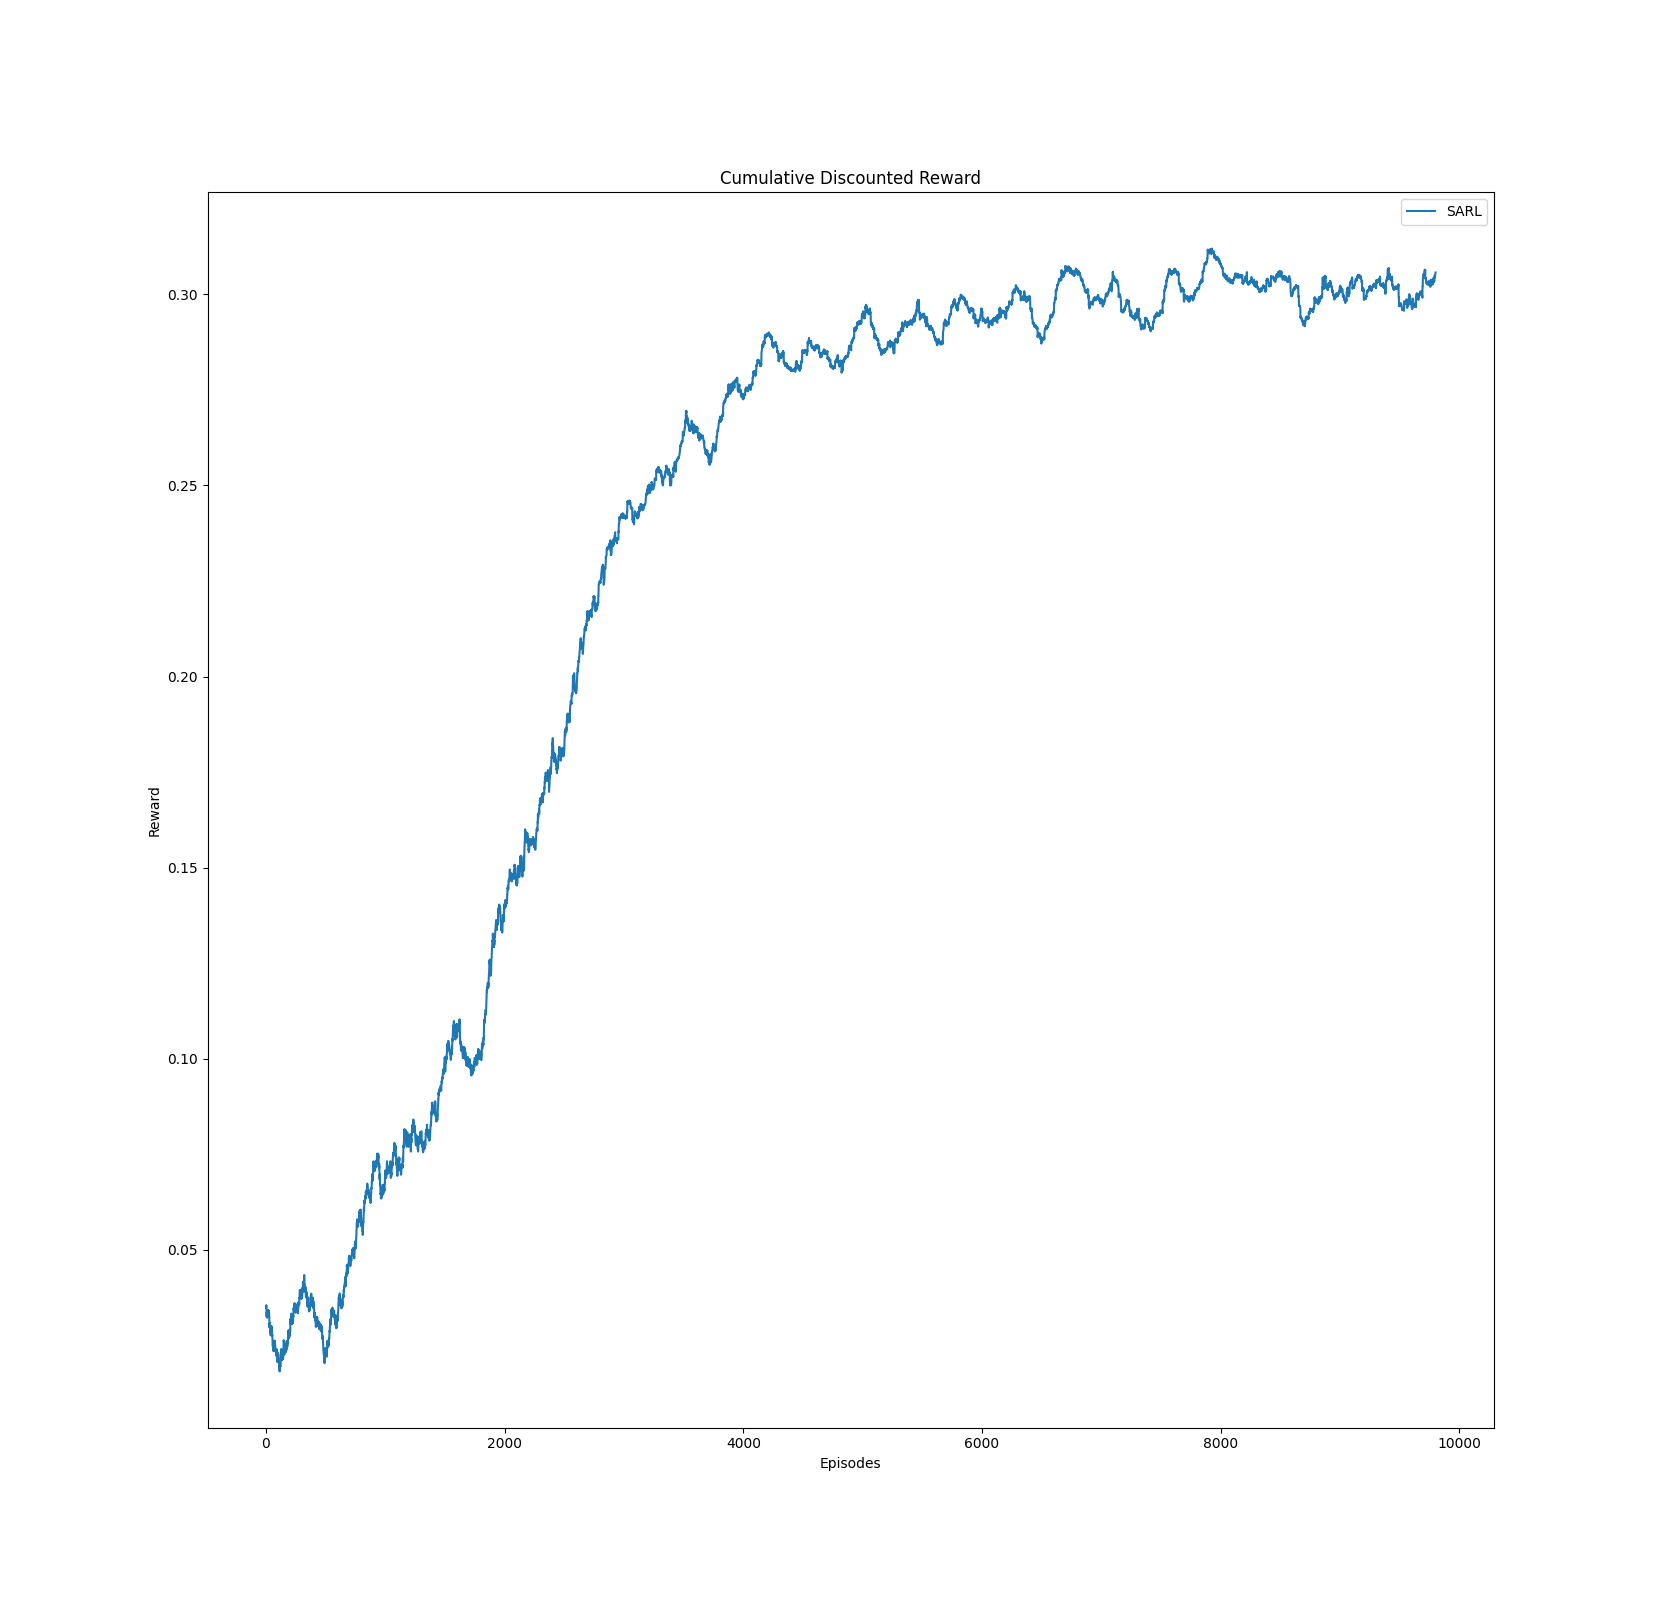
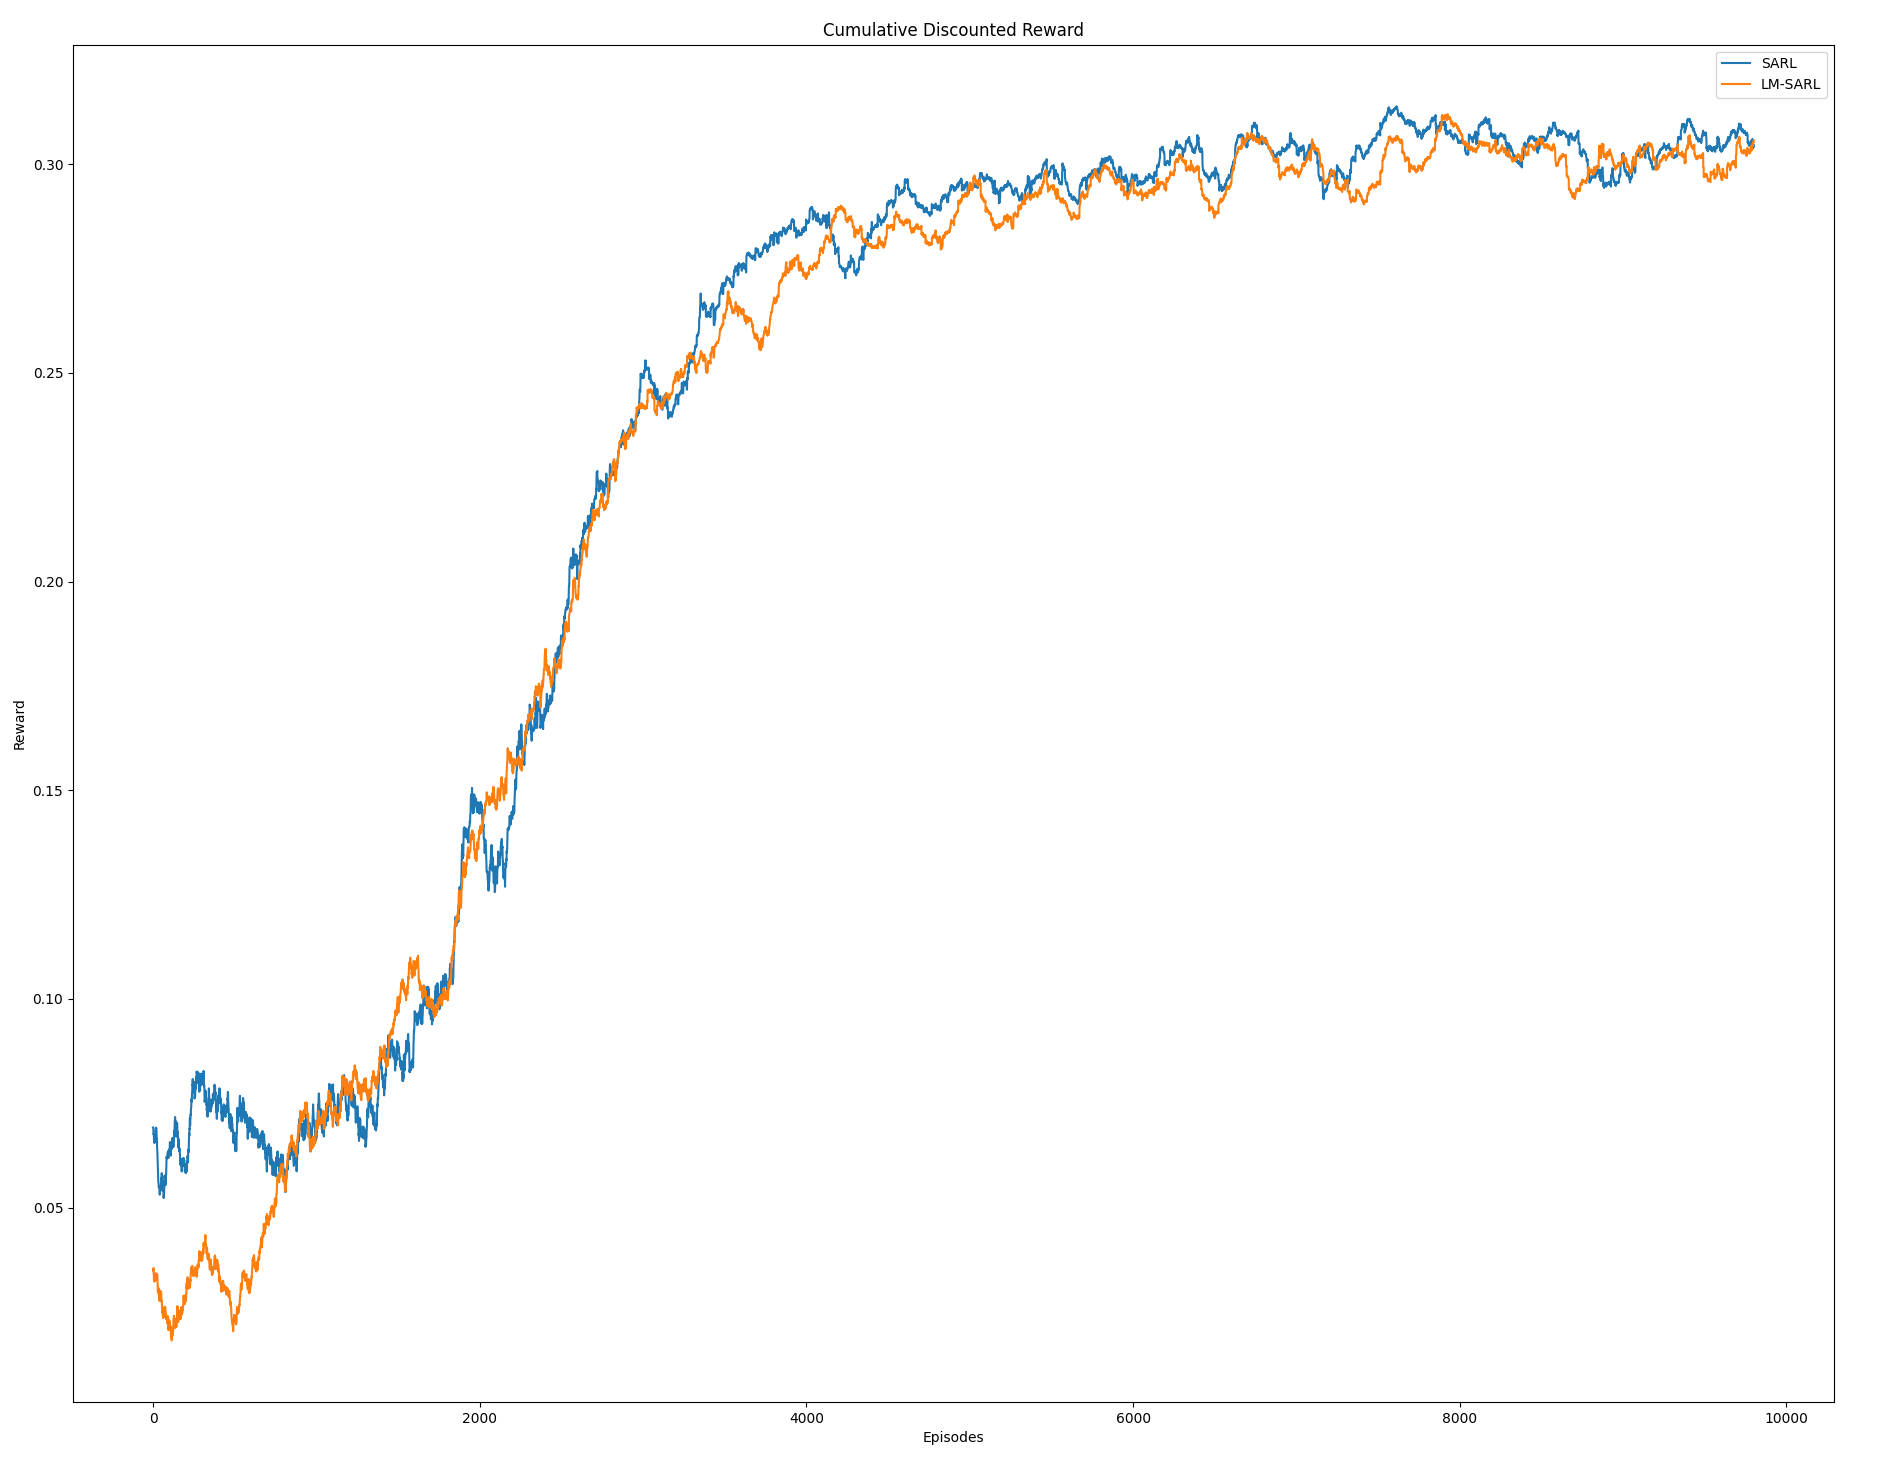
update sarl test result

diff --git a/crowd_nav/test_result.md b/crowd_nav/test_result.md
@@ -1,6 +1,6 @@
-### SARL test result
+### SARL Test Result
 
-#### Test Process of SARL
+#### Render Process of SARL
 
 - Attention scores
 
@@ -32,17 +32,19 @@ weights = (scores_exp / torch.sum(scores_exp, dim=1, keepdim=True)).unsqueeze(2)
 self.attention_weights = weights[0, :, 0].data.cpu().numpy()
 ```
 
+#### Simulation Videos
+
+- SARL
+
 ![](images/sarl.gif)
 
-#### Average reward of SARL
+- LM-SARL
+
+![](images/lm_sarl.gif)
+
+#### Average Rewards
 
 <img src="images/average_reward.png" style="zoom: 50%;" />
 
-#### Time to goal
-
-<img src="images/time_to_goal.png" style="zoom: 50%;" />
-
-- 怎么得到ped 1, 2, attention scores
-- interaction pooling
 - sarl + gazebo
 
